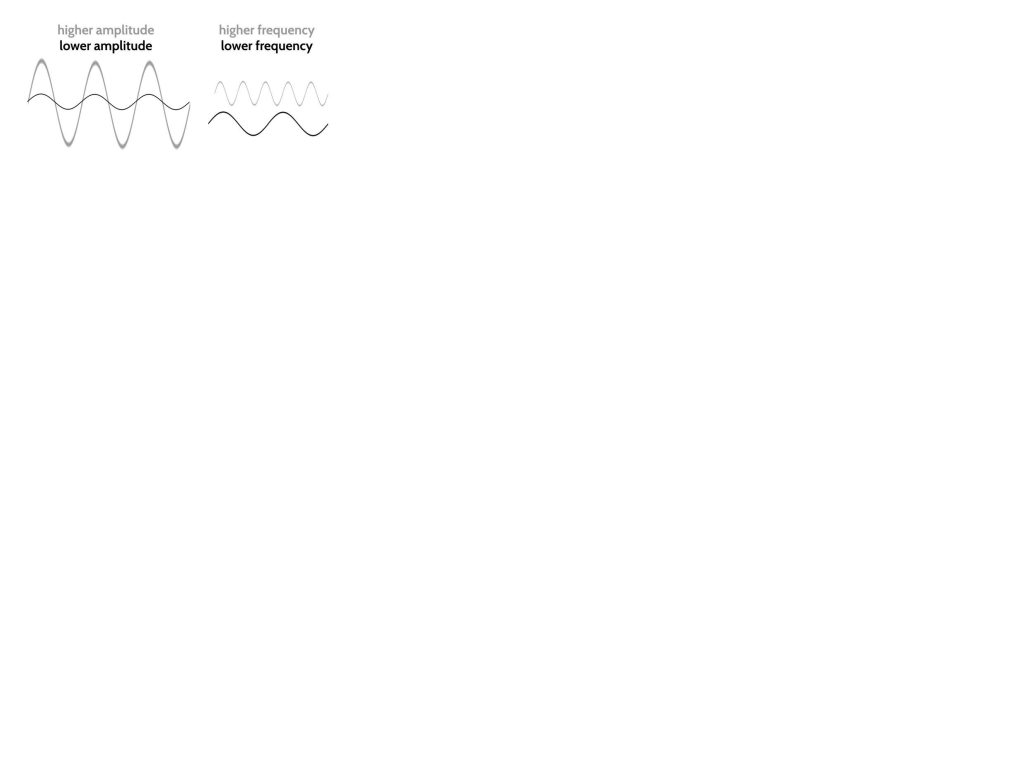
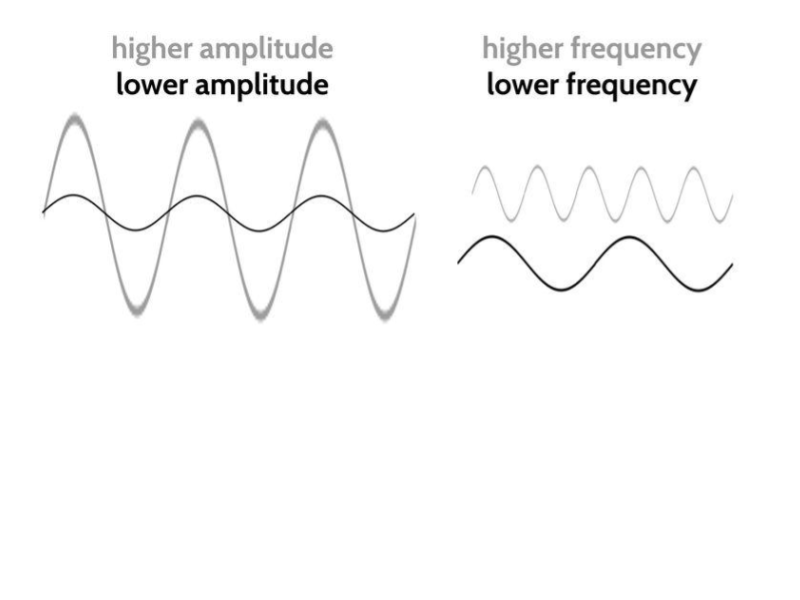
fixed images in waves reading

diff --git a/_site/src/sphys/p5_waves_info/p5l10_model-wave-reading/index.html b/_site/src/sphys/p5_waves_info/p5l10_model-wave-reading/index.html
@@ -31,13 +31,7 @@
 
 <h3 id="the-mystery-of-light">The Mystery of Light</h3>
 
-<div class="figure-right">
-
-  <p><img src="/assets/images/p5_waves/p5l10_photon_vars.png" alt="alt text" /></p>
-
-  <p><strong>Figure 1.</strong> A bunch of stuff that you can’t see well.</p>
-
-</div>
+<p><img src="/assets/images/p5_waves/p5l10_photon_vars.png" alt="alt text" class="figure-right" /></p>
 
 <p>Imagine a beam of light. What is it? For centuries, scientists have grappled with this question. Is it a wave, like the ripples in a pond, or a stream of particles, like tiny bullets? The answer, it turns out, is both, and neither, in a way that challenges our everyday intuition. We begin by exploring the evidence that led scientists to believe that light, and electromagnetic radiation in general, behaves like a wave.</p>
 
@@ -55,13 +49,21 @@
 
 <p>The fact that electromagnetic radiation can exhibit both interference and diffraction provides strong evidence for its wave-like nature.</p>
 
+<div class="checkpoint">
+
+  <h3 id="comprehension-checkpoint-1">Comprehension Checkpoint 1</h3>
+
+  <p>Explain how Young’s double-slit experiment demonstrates the wave nature of light. Use the concepts of constructive and destructive interference in your explanation.</p>
+
+</div>
+
 <h3 id="the-limitations-of-the-wave-model">The Limitations of the Wave Model</h3>
 
 <p>Despite its successes, the wave model cannot explain all aspects of electromagnetic radiation. As scientists delved deeper into the nature of light, they encountered phenomena that defied explanation by the wave model alone.</p>
 
 <p>Imagine that you just built a large sandcastle at the beach.</p>
 
-<p><img src="../../../assets/images/p5l10_water_castle.png" alt="alt text" class="figure-right" /></p>
+<p><img src="/assets/images/p5_waves/p5l10_water_wave.svg" alt="Sandcastle frequency/amplitude analogy" class="figure-right" /></p>
 
 <p>Waves are crashing nearby, and eventually the waves are going to destroy your sandcastle. If we model EM radiation as a wave, we should consider the energy in each wave. Destroying a sandcastle is affected by both:
 (A) the frequency of the water waves      (B) the amplitude of the water waves.</p>
@@ -73,17 +75,26 @@ High-amplitude water waves are large, like a wall of water. If the frequency is 
 
 <div class="checkpoint">
 
-  <h3 id="comprehension-checkpoint-1">Comprehension Checkpoint 1</h3>
+  <h3 id="comprehension-checkpoint-2">Comprehension Checkpoint 2</h3>
 
-  <p>Explain how Young’s double-slit experiment demonstrates the wave nature of light. Use the concepts of constructive and destructive interference in your explanation.</p>
+  <p>Consider the analogy of EM radiation as a water wave destroying a sandcastle. What parts of this model are useful for understanding the ways in which EM radiation acts as a wave?</p>
 
 </div>
 
-<p>Discussion Questions:</p>
+<center>
 
-<p>What does high amplitude mean in this model?
-What does high frequency mean in this model?</p>
+ ## Exit Ticket 
+ 
+ </center>
 
+<div>
+
+  <iframe src="https://docs.google.com/forms/d/e/1FAIpQLSdCwubffbxIB0mHKvfSXIa3WwFTF5ndmrDM5fGDiBX6Ip81Rw/viewform?embedded=true" width="100%" height="500px" style="max-width: 100%; border: none; margin: 0;">
+    <p>Loading…&lt;/iframe&gt;</p>
+
+    <p>&lt;/div&gt;</p>
+  </iframe>
+</div>
  <!-- This will render the markdown content of the page -->
 
                

diff --git a/_site/assets/css/worksheets.css b/_site/assets/css/worksheets.css
@@ -200,10 +200,13 @@ table {
 }
 
 .figure-right {
+    border-radius: 1rem;
+    border: solid (var(--primary-color)) 0.5px;
     display: block;
     width: 45%;
     float: right;
-    margin: 10px;
+    margin: 1rem 0.5rem;
+    padding: 0.5rem;
 }
 
 .figure-caption {
@@ -215,11 +218,12 @@ table {
 }
 
 .checkpoint {
-    border: solid black 0.5px;
+    border-left: 4px solid var(--primary-color);
     background-color: var(--secondary-color) margin: 5% 2%;
     padding: 1%;
     padding-left: 15pt;
     box-shadow: 5px;
+    margin: 1rem 1rem;
 }
 
 .checkpoint {

diff --git a/assets/css/worksheets.css b/assets/css/worksheets.css
@@ -200,10 +200,13 @@ table {
 }
 
 .figure-right {
+    border-radius: 1rem;
+    border: solid (var(--primary-color)) 0.5px;
     display: block;
     width: 45%;
     float: right;
-    margin: 10px;
+    margin: 1rem 0.5rem;
+    padding: 0.5rem;
 }
 
 .figure-caption {
@@ -215,11 +218,12 @@ table {
 }
 
 .checkpoint {
-    border: solid black 0.5px;
+    border-left: 4px solid var(--primary-color);
     background-color: var(--secondary-color) margin: 5% 2%;
     padding: 1%;
     padding-left: 15pt;
     box-shadow: 5px;
+    margin: 1rem 1rem;
 }
 
 .checkpoint {

diff --git a/src/sphys/p5_waves_info/p5l10_model-wave-reading.md b/src/sphys/p5_waves_info/p5l10_model-wave-reading.md
@@ -14,13 +14,7 @@ stylsheet: worksheets
 
 ### The Mystery of Light
 
-<div class='figure-right'>
-
-![alt text](../../../assets/images/p5_waves/p5l10_photon_vars.png)
-
-**Figure 1.** A bunch of stuff that you can't see well.
-
-</div>
+![alt text](../../../assets/images/p5_waves/p5l10_photon_vars.png){: class='figure-right'}
 
 Imagine a beam of light. What is it? For centuries, scientists have grappled with this question. Is it a wave, like the ripples in a pond, or a stream of particles, like tiny bullets? The answer, it turns out, is both, and neither, in a way that challenges our everyday intuition. We begin by exploring the evidence that led scientists to believe that light, and electromagnetic radiation in general, behaves like a wave.
 
@@ -40,13 +34,21 @@ Young's double-slit experiment highlights the phenomenon of interference. Interf
 
 The fact that electromagnetic radiation can exhibit both interference and diffraction provides strong evidence for its wave-like nature.
 
+<div class="checkpoint">
+
+### Comprehension Checkpoint 1
+
+Explain how Young's double-slit experiment demonstrates the wave nature of light. Use the concepts of constructive and destructive interference in your explanation.
+
+</div>
+
 ### The Limitations of the Wave Model
 
 Despite its successes, the wave model cannot explain all aspects of electromagnetic radiation. As scientists delved deeper into the nature of light, they encountered phenomena that defied explanation by the wave model alone.
 
 Imagine that you just built a large sandcastle at the beach.
 
-![alt text](<../../../assets/images/p5l10_water_castle.png>){: class="figure-right"}
+![Sandcastle frequency/amplitude analogy](../../../assets/images/p5_waves/p5l10_water_wave.svg){: class="figure-right"}
 
  Waves are crashing nearby, and eventually the waves are going to destroy your sandcastle. If we model EM radiation as a wave, we should consider the energy in each wave. Destroying a sandcastle is affected by both:
 (A) the frequency of the water waves      (B) the amplitude of the water waves.
@@ -58,14 +60,20 @@ Some particle-scale events, such as ionizing an atom or producing an electron fr
 
 <div class="checkpoint">
 
-### Comprehension Checkpoint 1
+### Comprehension Checkpoint 2
 
-Explain how Young's double-slit experiment demonstrates the wave nature of light. Use the concepts of constructive and destructive interference in your explanation.
+Consider the analogy of EM radiation as a water wave destroying a sandcastle. What parts of this model are useful for understanding the ways in which EM radiation acts as a wave?
 
 </div>
 
-Discussion Questions:
+<center>
 
-What does high amplitude mean in this model?
-What does high frequency mean in this model?
+ ## Exit Ticket 
+ 
+ </center>
 
+<div>
+
+<iframe src="https://docs.google.com/forms/d/e/1FAIpQLSdCwubffbxIB0mHKvfSXIa3WwFTF5ndmrDM5fGDiBX6Ip81Rw/viewform?embedded=true" width="100%" height="500px" style="max-width: 100%; border: none; margin: 0;">Loading…</iframe>
+
+</div>

diff --git a/src/sphys/p5_waves_info/p5l10_data-amplitude-frequency-duality.md b/src/sphys/p5_waves_info/p5l10_data-amplitude-frequency-duality.md
@@ -1,7 +1,8 @@
 ---
 layout: stemplate
 title: "P5L10 Data: Amplitude and Frequency"
-subtitle: Experimental Data B
+subtitle: Experimental Data - 
+author: Jonathan Corbett
 date: 21 April 2025
 stylesheet: worksheets
 math: true
